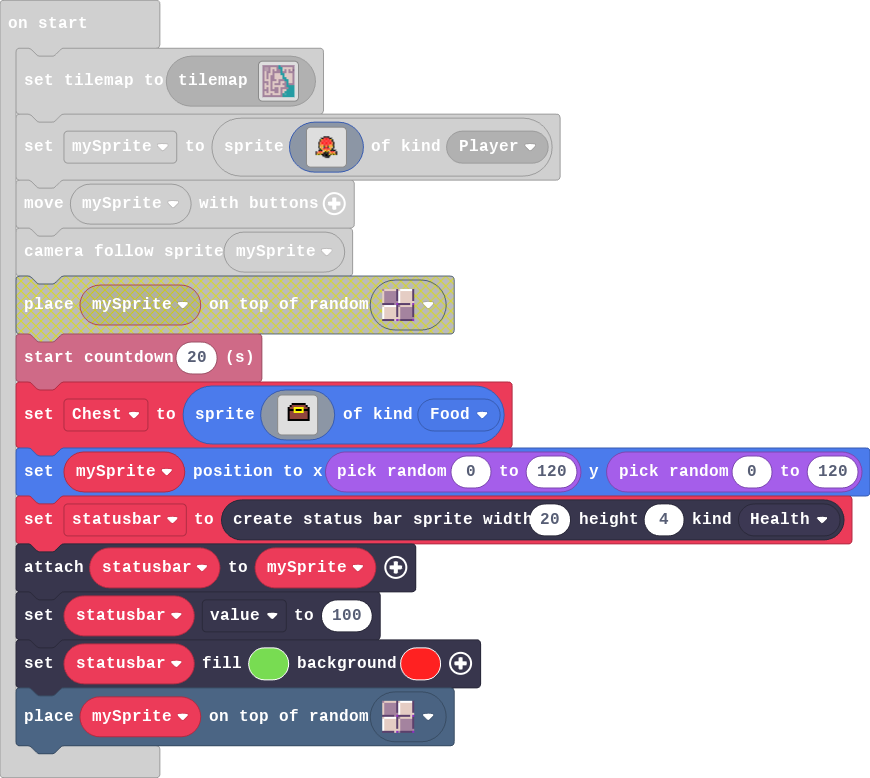
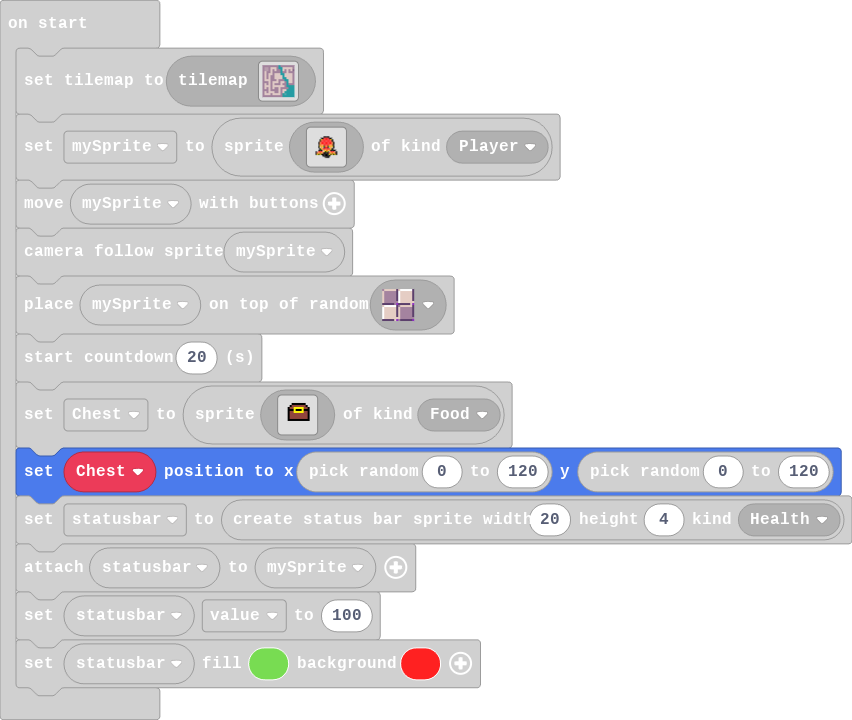
Update main.blocks, main.ts

diff --git a/main.ts b/main.ts
@@ -55,7 +55,7 @@ Chest = sprites.create(img`
     . . . . . . . . . . . . . . . . 
     . . . . . . . . . . . . . . . . 
     `, SpriteKind.Food)
-mySprite.setPosition(randint(0, 120), randint(0, 120))
+Chest.setPosition(randint(0, 120), randint(0, 120))
 let statusbar = statusbars.create(20, 4, StatusBarKind.Health)
 statusbar.attachToSprite(mySprite)
 statusbar.value = 100
